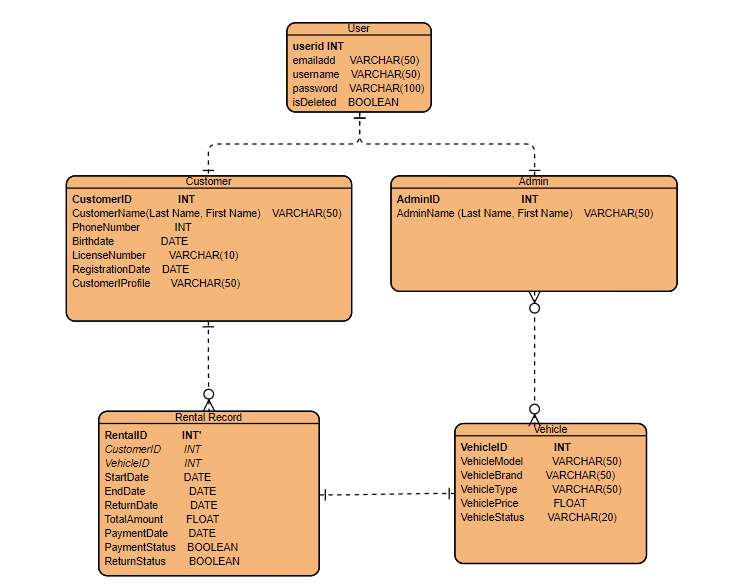
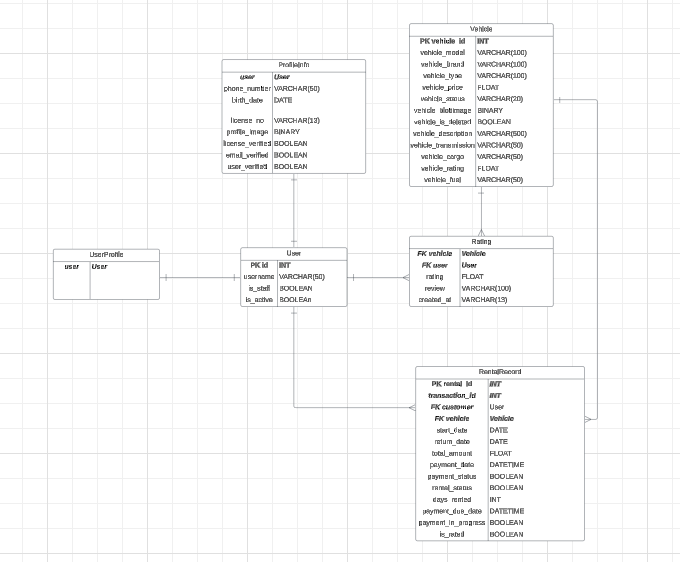
Update ERD

diff --git a/README.md b/README.md
@@ -89,7 +89,7 @@ Vehicle Rental System designed to streamline the rental process for both custome
 ## PROJECT RESOURCES
 
 #### ERD 
-[![ERD][ERD-image]](https://example.com)
+[![ERD][ERD-image]](https://lucid.app/lucidchart/fef73f5a-8091-4b43-a9e2-e871cb94bfef/edit?viewport_loc=-994%2C-410%2C5120%2C2228%2C0_0&invitationId=inv_63ef96ed-f390-4e4e-86a6-98b34744cc24)
 
 ### UI-UX
 View more of the pages and designs in depth here:
